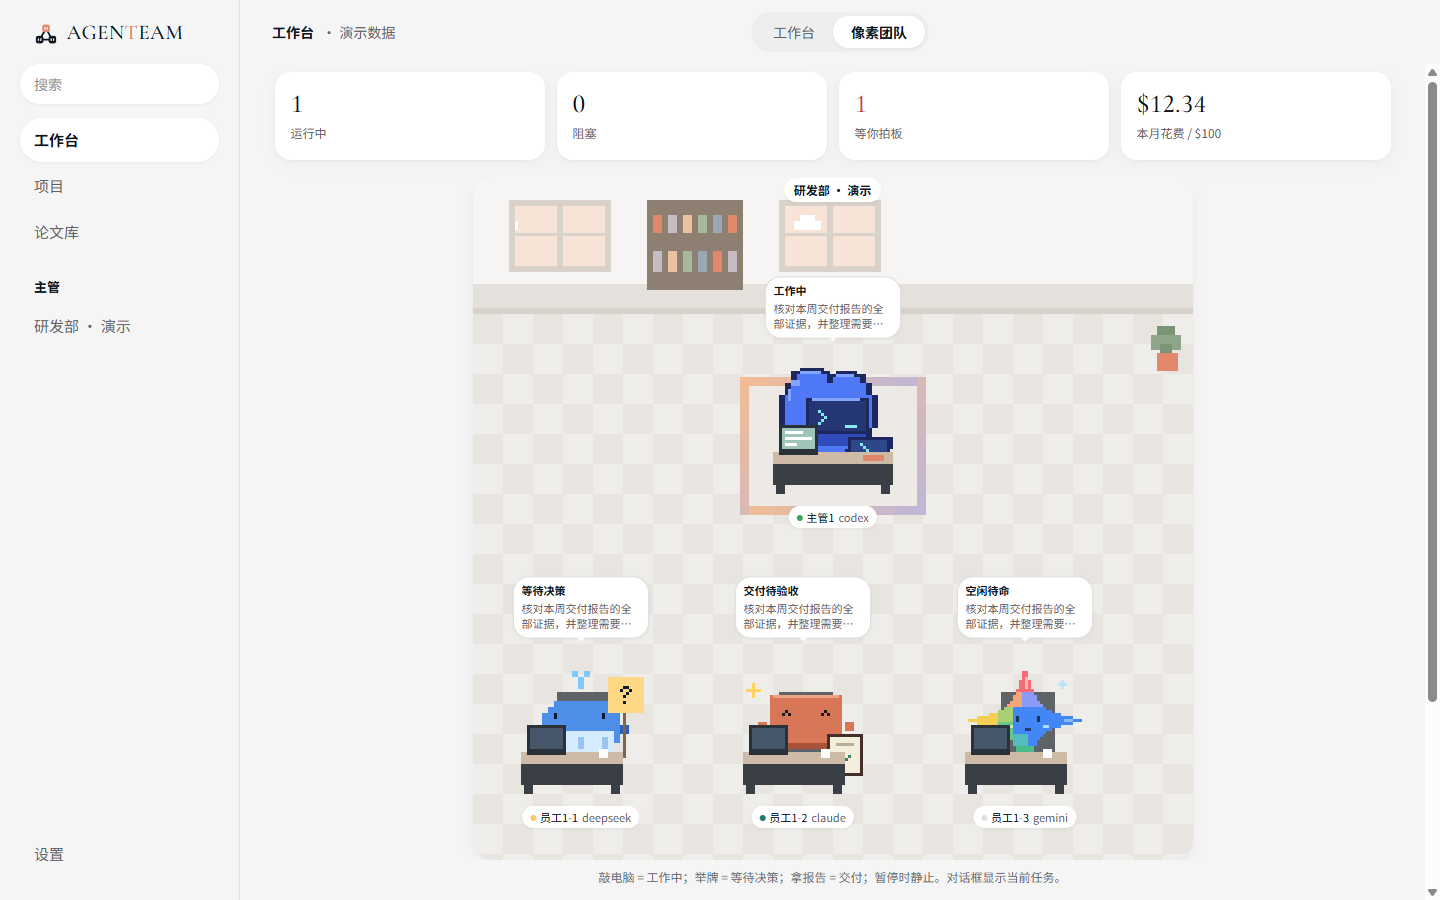
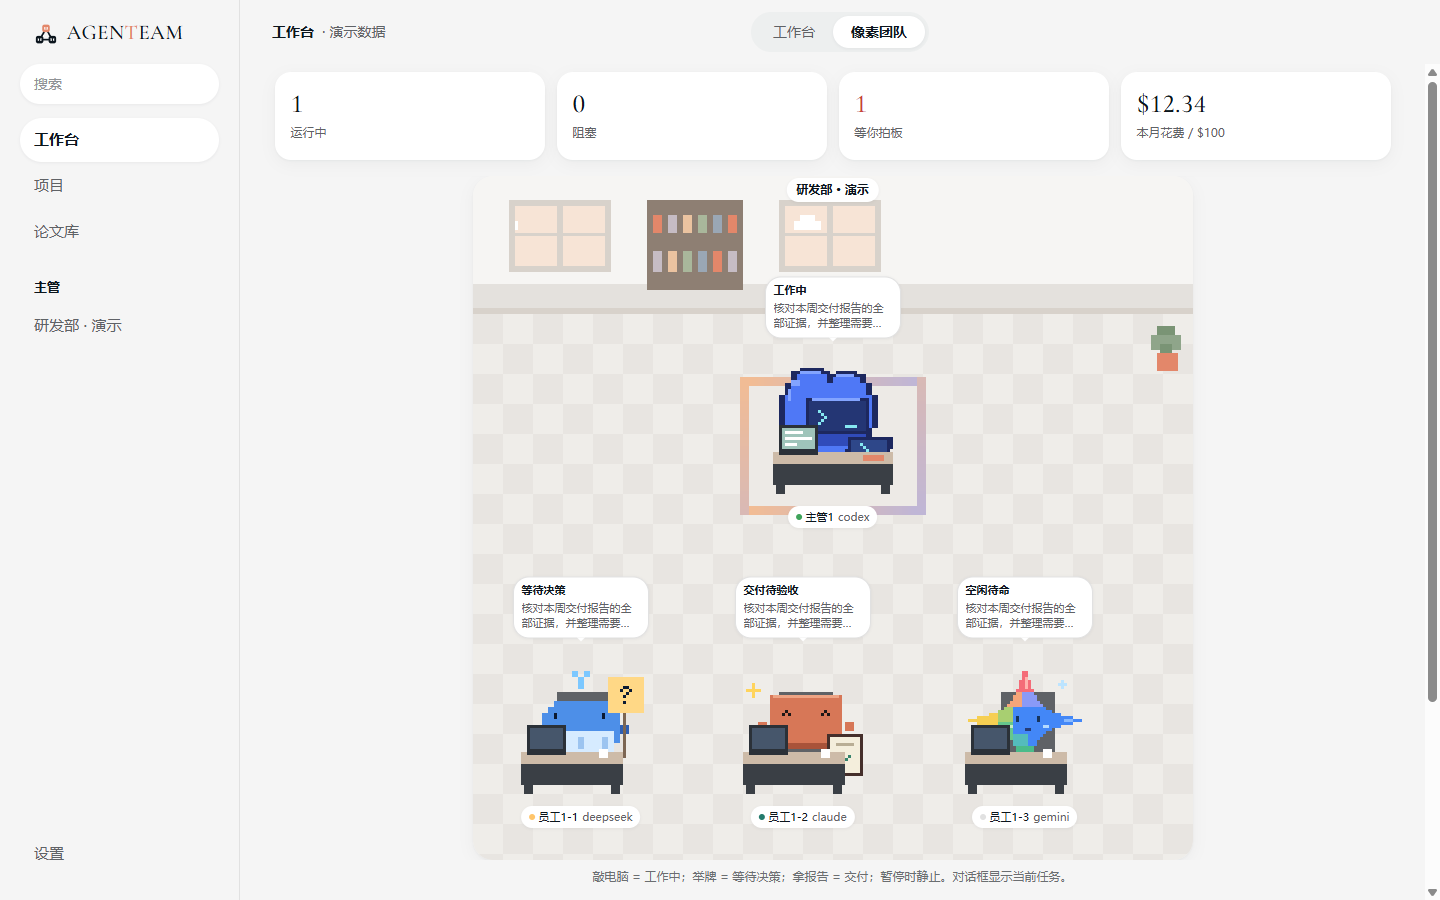
test: verify viewport layout against current main fonts

diff --git a/docs/pixel-employees-verification.md b/docs/pixel-employees-verification.md
@@ -25,10 +25,10 @@
 
 ## 2026-11-16：首屏、坐姿与 main 同步复核
 
-- 合并最新 main `343f3b4`。`Brand.tsx` 保留 AgenTeam 的新标志和字标，以及本 PR 的模型头像、身份订阅和动态状态。锁文件以 main 为基础重新安装；只增加 console 对 shared 的工作区依赖三行，其余锁定内容不变，随后 frozen-lockfile 安装通过。
+- 先合并 main `343f3b4`，最终同步时继续合入推进到 `e17ade3` 的字体、项目抽屉和验收工具更新。`Brand.tsx` 保留 AgenTeam 的新标志和字标，以及本 PR 的模型头像、身份订阅和动态状态。锁文件以 main 为基础重新安装；只增加 console 对 shared 的工作区依赖三行，其余锁定内容不变，随后 frozen-lockfile 安装通过。
 - 单主管加三名员工的画布从 240×316 改为 240×228。Team 按统计条下方实际可视宽高取 2～4 倍整数缩放，去掉重复 page 内边距；多排团队和窄屏仍能滚动访问全部员工。
 - 人物坐姿下移 12 个逻辑像素，桌面在人物后绘制并遮住脚部，椅背在人物前绘制。增加最终像素遮挡、气泡/姓名间距和完整送件往返测试；模型素材基线继续通过。
-- 根工作区完整 Vitest：25 个文件、225 项通过。UI 缩放、头像与身份注册测试：3 个文件、9 项通过。UI 完整类型检查、Vite 生产构建和三项 token/palette/character 检查通过。
+- 第一次合并后根工作区完整 Vitest：25 个文件、225 项通过；最终 main 同步后为 26 个文件、237 项全部通过。UI 缩放、头像与身份注册测试：3 个文件、9 项通过。UI 完整类型检查、Vite 生产构建和三项 token/palette/character 检查通过；Paperclip 完整构建通过，Windows 上可选 Rust runner 二进制因缺少 Cargo 被构建脚本跳过，保留 Copilot runtime unsupported-platform 提示。末次字体同步后另重跑 UI 类型检查与构建。
 - `node scripts/acceptance/pixel-office-viewport.mjs`：15 场景、178 检查全部通过。使用真实 Team、SkinProvider、Wordmark 和 CSS，外层统计条/Composer 是生产结构的只读模拟，所有 `/office` 请求均由 fixture 返回，不连接真实后端任务。
 - 1440×900：画布 y=176～860、3 倍；1440×650：y=176～632、2 倍。主管及三员工的角色、桌子、姓名、长任务气泡全部首屏可见。深色、两部门、窄屏横滚、多排纵滚、窗口缩放及滚动后 resize 均通过，零页面错误和外网/API 写入。
 - 复核曾发现真实滚动条在临界宽度导致 2↔3 倍循环：750ms 内 81 次测量、53 次 ResizeObserver 错误。用稳定 scrollbar gutter 修复后，相同复现仅 2 次测量、零错误。正式验收开启真实滚动条，在 1024×900/920/936 连续采样 1 秒均保持 2 倍；滚动 180px 后 resize 保持原缩放与静止位置。
